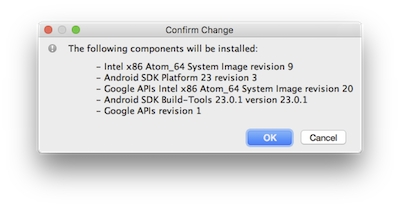
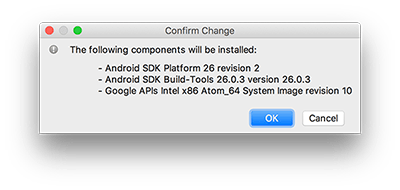
Changed install instructions to reference Android API level 26 instead of API level 23. (#492)

Changed region(s): [[0.09, 0.1053, 0.93, 0.5526], [0.09, 0.5526, 0.9, 0.7368]]

diff --git a/docs/getting-started.md b/docs/getting-started.md
@@ -325,7 +325,7 @@ Once setup has finalized and you're presented with the Welcome screen, proceed t
 
 #### 2. Install the Android SDK
 
-Android Studio installs the latest Android SDK by default. Building a React Native app with native code, however, requires the `Android 6.0 (Marshmallow)` SDK in particular. Additional Android SDKs can be installed through the SDK Manager in Android Studio.
+Android Studio installs the latest Android SDK by default. Building a React Native app with native code, however, requires the `Android 8.0 (Oreo)` SDK in particular. Additional Android SDKs can be installed through the SDK Manager in Android Studio.
 
 The SDK Manager can be accessed from the "Welcome to Android Studio" screen. Click on "Configure", then select "SDK Manager".
 
@@ -341,11 +341,9 @@ The SDK Manager can be accessed from the "Welcome to Android Studio" screen. Cli
 
 > The SDK Manager can also be found within the Android Studio "Preferences" dialog, under **Appearance & Behavior** → **System Settings** → **Android SDK**.
 
-Select the "SDK Platforms" tab from within the SDK Manager, then check the box next to "Show Package Details" in the bottom right corner. Look for and expand the `Android 6.0 (Marshmallow)` entry, then make sure the following items are all checked:
+Select the "SDK Platforms" tab from within the SDK Manager, then check the box next to "Show Package Details" in the bottom right corner. Look for and expand the `Android 8.0 (Oreo)` entry, then make sure the following items are all checked:
 
-* `Google APIs`
-* `Android SDK Platform 23`
-* `Intel x86 Atom_64 System Image`
+* `Android SDK Platform 26`
 * `Google APIs Intel x86 Atom_64 System Image`
 
 <block class="native mac android" />
@@ -358,15 +356,15 @@ Select the "SDK Platforms" tab from within the SDK Manager, then check the box n
 
 <block class="native windows mac linux android" />
 
-Next, select the "SDK Tools" tab and check the box next to "Show Package Details" here as well. Look for and expand the "Android SDK Build-Tools" entry, then make sure that `23.0.1` is selected.
+Next, select the "SDK Tools" tab and check the box next to "Show Package Details" here as well. Look for and expand the "Android SDK Build-Tools" entry, then make sure that `26.0.3` is selected.
 
 <block class="native mac android" />
 
-![Android SDK Manager - 23.0.1 Build Tools](/react-native/docs/assets/GettingStartedAndroidSDKManagerSDKToolsMacOS.png)
+![Android SDK Manager - 26.0.3 Build Tools](/react-native/docs/assets/GettingStartedAndroidSDKManagerSDKToolsMacOS.png)
 
 <block class="native windows android" />
 
-![Android SDK Manager - 23.0.1 Build Tools](/react-native/docs/assets/GettingStartedAndroidSDKManagerSDKToolsWindows.png)
+![Android SDK Manager - 26.0.3 Build Tools](/react-native/docs/assets/GettingStartedAndroidSDKManagerSDKToolsWindows.png)
 
 <block class="native windows mac linux android" />
 
@@ -494,7 +492,7 @@ If you have just installed Android Studio, you will likely need to [create a new
 
 <block class="native mac windows linux android" />
 
-Select the "x86 Images" tab, then look for the **Marshmallow** API Level 23, x86_64 ABI image with a Android 6.0 (Google APIs) target.
+Select the "x86 Images" tab, then look for the **Oreo** API Level 26, x86_64 ABI image with a Android 8.0 (Google APIs) target.
 
 <block class="native linux android" />
 
